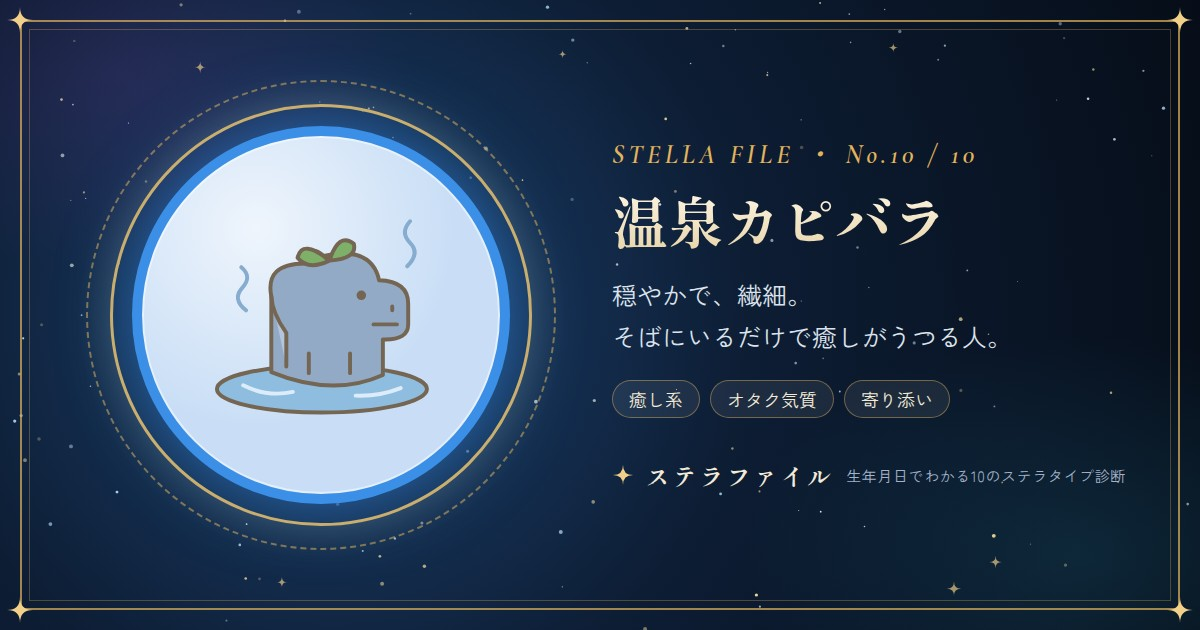
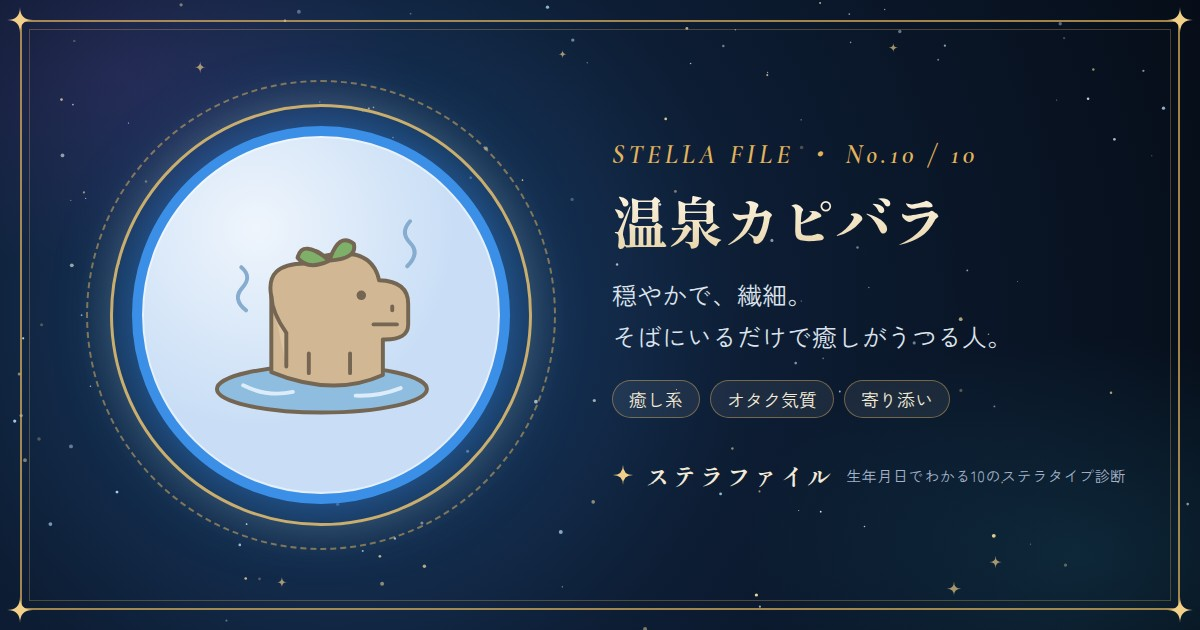
Keep the capybara brown with a blue hot spring
The capybara keeps its natural tan body; water blue comes from the hot
spring and steam instead. Prompt, art direction doc and OG images
updated.

Claude-Session: https://claude.ai/code/session_01GAXW9NdvsHc4VH9BHs7hcc

Changed region(s): [[0.2158, 0.3921, 0.3392, 0.6333]]

diff --git a/src/data/types.ts b/src/data/types.ts
@@ -31,7 +31,7 @@ export const CHARACTER_TYPES: CharacterType[] = [
   { stem: "庚", slug: "doberman", displayName: "正々堂々ドーベルマン", shortCatch: "遠回しな言い方は苦手。でも、誰より義理がたい。", summary: "白黒はっきりさせたい、筋の通ったタイプ。ずるや嘘が本当に苦手で、義理は何より大切にします。ストレートなぶん衝突も多く、好き嫌いがはっきり分かれやすい人。でも、好きになってくれる人からはとことん好かれます。", strengths: ["何より義理を守れる", "ずるや嘘をしないまっすぐさ", "問題から逃げずに向き合える"], keywords: ["義理がたい", "まっすぐ", "好き嫌いが分かれる"], motif: "鉄", props: ["小さな盾のバッジ"], backgroundMotifs: ["一本の旗"], imagePrompt: "A friendly silver-gray doberman with a white muzzle and natural soft floppy ears, upright but rounded posture, a small gold shield badge on a steel-blue collar, tiny white flag planted next to it, earnest expression, never aggressive." },
   { stem: "辛", slug: "hedgehog", displayName: "ガラスハートハリネズミ", shortCatch: "トゲトゲは、繊細な心を守るためのガード。", summary: "繊細でデリケート、何より傷つきたくないタイプ。だからこそ針で守りを固め、ときには口がちょっと悪くなることも。本当はケンカもしたくないし、人の痛みがよくわかる人です。完璧主義寄りで、こだわりを形にする職人気質。特別扱いされると、とてもうれしくなります。", strengths: ["完璧を目指せる職人気質", "人の痛みがわかる繊細さ", "こだわりを妥協せず形にできる"], keywords: ["繊細", "完璧主義", "高嶺の花"], motif: "宝石", props: ["透き通るハート"], backgroundMotifs: ["小さな白い花"], imagePrompt: "A small pearl-white hedgehog with a few large rounded silver spines, gently cradling a pale translucent-looking flat blue heart, shy dot eyes, one tiny white flower, protective and tender pose." },
   { stem: "壬", slug: "orca", displayName: "恋も野望も全力シャチ", shortCatch: "好きなことも、やりたいことも、全部本気。", summary: "エネルギッシュで、スケールの大きいタイプ。いろいろな人や価値観を受け入れられる懐の深さがあり、隠していてもどこか目立ってしまう存在感を持っています。興味の向くまま動くので、気づけば人生経験が豊富になっている人です。", strengths: ["尽きないエネルギー", "いろいろな人や価値観を受け入れられる", "経験の多さからくる引き出しの豊富さ"], keywords: ["エネルギッシュ", "懐が深い", "経験豊富"], motif: "海", props: ["小さなハート"], backgroundMotifs: ["丸い波"], imagePrompt: "A friendly small navy-blue-and-ivory orca leaping gently above two simple blue waves, rounded fins, tiny dusty-pink heart beside it, energetic forward pose, minimal flat shapes." },
-  { stem: "癸", slug: "capybara", displayName: "温泉カピバラ", shortCatch: "穏やかで、繊細。そばにいるだけで癒しがうつる人。", summary: "穏やかで繊細、そばにいるだけで周りに癒しが伝染していくタイプ。好きなことにはオタク気質でのめり込みます。優しそうに見えて、実は溜め込みがすごく、ある日突然疲れきってしまう一面も。人に寄り添いたいし、自分も寄り添ってほしい人です。", strengths: ["そばにいる人を自然と癒せる", "人の気持ちに寄り添える", "好きなことをとことん深められる"], keywords: ["癒し系", "オタク気質", "寄り添い"], motif: "雨露", props: ["頭の葉っぱ"], backgroundMotifs: ["湯気", "やさしい水面"], imagePrompt: "A relaxed misty-blue capybara soaking in a simple clear-blue oval hot spring, one small green leaf on its head, two soft steam curls, tiny peaceful eyes, broad rounded nose." },
+  { stem: "癸", slug: "capybara", displayName: "温泉カピバラ", shortCatch: "穏やかで、繊細。そばにいるだけで癒しがうつる人。", summary: "穏やかで繊細、そばにいるだけで周りに癒しが伝染していくタイプ。好きなことにはオタク気質でのめり込みます。優しそうに見えて、実は溜め込みがすごく、ある日突然疲れきってしまう一面も。人に寄り添いたいし、自分も寄り添ってほしい人です。", strengths: ["そばにいる人を自然と癒せる", "人の気持ちに寄り添える", "好きなことをとことん深められる"], keywords: ["癒し系", "オタク気質", "寄り添い"], motif: "雨露", props: ["頭の葉っぱ"], backgroundMotifs: ["湯気", "やさしい水面"], imagePrompt: "A relaxed warm-tan capybara soaking in a simple clear-blue oval hot spring, one small green leaf on its head, two soft steam curls, tiny peaceful eyes, broad rounded nose." },
 ];
 export const typeByStem = (stem: Stem) => CHARACTER_TYPES.find(type => type.stem === stem)!;
 export const typeBySlug = (slug: string) => CHARACTER_TYPES.find(type => type.slug === slug);

diff --git a/docs/art-direction.md b/docs/art-direction.md
@@ -12,7 +12,7 @@
 
 全キャラクターを320×320 viewBox、太さ4.2の暖かい茶線、丸いlinecap/linejoin、フラットカラーで統一。参考画像はニュアンスのみを参照し、オリジナル仮SVGを実装しています。
 
-キャラクターの色は、そのタイプのエレメント色に寄せます（木＝緑、火＝朱・コーラル、土＝山吹・黄土、金＝シルバー＋パール、水＝紺・ブルー）。体色で出すと動物らしさが薄れるタイプ（グリズリー・うさぎ・パンダ）は、体は本来の色のまま、緑のリボン、四つ葉のクローバー、黄色の湯のみなど小物でエレメント色を添えます。妖狐は白地に朱の耳・隈取り・しっぽ。線の色 `#756653` は全キャラクター共通です。
+キャラクターの色は、そのタイプのエレメント色に寄せます（木＝緑、火＝朱・コーラル、土＝山吹・黄土、金＝シルバー＋パール、水＝紺・ブルー）。体色で出すと動物らしさが薄れるタイプ（グリズリー・うさぎ・パンダ・カピバラ）は、体は本来の色のまま、緑のリボン、四つ葉のクローバー、黄色の湯のみ、青いお湯など小物や背景でエレメント色を添えます。妖狐は白地に朱の耳・隈取り・しっぽ。線の色 `#756653` は全キャラクター共通です。
 
 ## アセットの仕様
 
